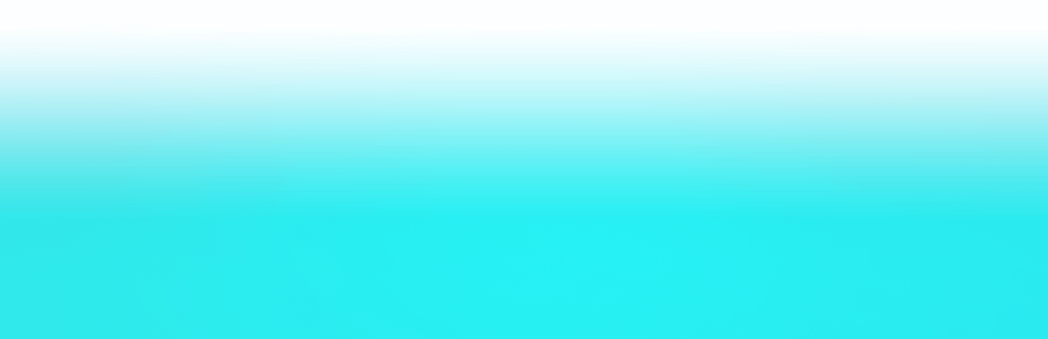
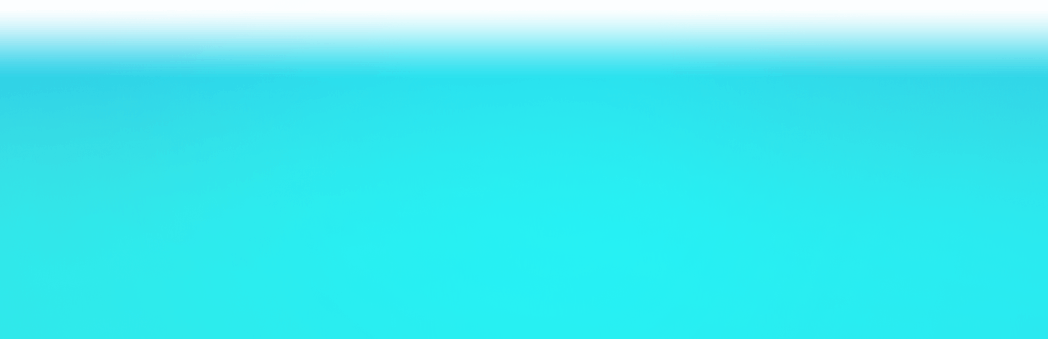
Bug fixes, water asset change.

diff --git a/src/views/MatchThreeBoard.ts b/src/views/MatchThreeBoard.ts
@@ -1,7 +1,7 @@
 import anime from 'animejs';
 import { Container, Sprite } from 'pixi.js';
 import { Images } from '../assets';
-import { delayRunnable, makeSprite } from '../utils';
+import { callIfExists, delayRunnable, makeSprite } from '../utils';
 import { MatchSprite } from './MatchSprite';
 
 export class MatchThreeBoard extends Container {
@@ -70,6 +70,8 @@ export class MatchThreeBoard extends Container {
     }
 
     private onDragStart(event, sprite) {
+        if (this.draggedElement) return;
+
         this.data = event.data;
         this.draggedElement = sprite;
         this.dragStartPosition = event.data.getLocalPosition(this);
@@ -88,6 +90,7 @@ export class MatchThreeBoard extends Container {
 
     private onDragEnd() {
         if (this.draggedElement) {
+            this.board.forEach((col) => col.forEach((e) => e?.disable()));
             const dragEndPosition = this.data.getLocalPosition(this);
 
             const dx = dragEndPosition.x - this.dragStartPosition.x;
@@ -119,15 +122,20 @@ export class MatchThreeBoard extends Container {
                     targetRow--;
                 }
             }
+
+            const cb = () => {
+                this.board.forEach((col) => col.forEach((e) => e?.enable()));
+            };
             if (targetRow !== this.dragStartBoardPosition.row || targetCol !== this.dragStartBoardPosition.col) {
                 this.swapElements(
                     this.dragStartBoardPosition.row,
                     this.dragStartBoardPosition.col,
                     targetRow,
                     targetCol,
+                    cb,
                 );
             } else {
-                this.resetElementPosition(this.draggedElement);
+                this.resetElementPosition(this.draggedElement, cb);
             }
 
             this.draggedElement = null;
@@ -135,7 +143,7 @@ export class MatchThreeBoard extends Container {
         }
     }
 
-    private swapElements(row1, col1, row2, col2) {
+    private swapElements(row1, col1, row2, col2, cb?) {
         const element1 = this.board[col1][row1];
         const element2 = this.board[col2][row2];
 
@@ -150,6 +158,7 @@ export class MatchThreeBoard extends Container {
                     y: tempY,
                     duration: 100,
                     easing: 'easeInOutSine',
+                    complete: () => callIfExists(cb),
                 });
             }
             if (element2) {
@@ -162,6 +171,7 @@ export class MatchThreeBoard extends Container {
                     y: tempY,
                     duration: 100,
                     easing: 'easeInOutSine',
+                    complete: () => callIfExists(cb),
                 });
             }
             return;
@@ -220,6 +230,7 @@ export class MatchThreeBoard extends Container {
 
                             element1.boardPosition = { row: row1, col: col1 };
                             element2.boardPosition = { row: row2, col: col2 };
+                            callIfExists(cb);
                         },
                     });
 
@@ -229,17 +240,18 @@ export class MatchThreeBoard extends Container {
                 delayRunnable(0.3, () => {
                     const { startX: sx, startY: sy, tileSize, rows, cols } = this.config;
 
-                    const cb = () => {
+                    const callback = () => {
                         if (this.board.every((col) => col.every((el) => el === null))) {
                             delayRunnable(0.3, () => {
                                 this.emit('won');
+                                callIfExists(cb);
                             });
                         }
                     };
                     matches.forEach((element, i) => {
                         this.board[element.boardPosition.col][element.boardPosition.row] = null;
 
-                        element.explode(i === matches.length - 1 ? cb : null);
+                        element.explode(i === matches.length - 1 ? callback : null);
                     });
 
                     for (let col = 0; col < cols; col++) {
@@ -268,6 +280,7 @@ export class MatchThreeBoard extends Container {
                                     y,
                                     duration: 100,
                                     easing: 'easeInOutSine',
+                                    complete: () => callIfExists(cb),
                                 });
 
                                 element.originalPosition = { x, y };
@@ -324,8 +337,9 @@ export class MatchThreeBoard extends Container {
         return matches.filter((v, i, a) => a.indexOf(v) === i);
     }
 
-    private resetElementPosition(element) {
+    private resetElementPosition(element, cb?) {
         element.x = element.originalPosition.x;
         element.y = element.originalPosition.y;
+        callIfExists(cb);
     }
 }

diff --git a/src/views/BoardView.ts b/src/views/BoardView.ts
@@ -12,13 +12,13 @@ import { Chest } from './Chest';
 import { Pirate } from './pirate/Pirate';
 
 const BOUNDS = {
-    L: { x: -425, y: -450, w: 850, h: 900 },
+    L: { x: -425, y: -350, w: 850, h: 750 },
     P: { x: -425, y: -800, w: 850, h: 1600 },
 };
 
 const PIRATE = {
     initialPos: { x: -200, y: -300 },
-    targetPos: { x: -200, y: 230 },
+    targetPos: { x: -200, y: 280 },
     scale: 0.7,
 };
 
@@ -78,7 +78,7 @@ export class BoardView extends Container {
 
     private buildChest(): void {
         this.chest = new Chest();
-        this.chest.position.set(200, 260);
+        this.chest.position.set(200, 220);
         this.chest.scale.set(1.5);
         this.addChild(this.chest);
         this.chest.float();
@@ -100,8 +100,8 @@ export class BoardView extends Container {
 
     private buildBubbles(): void {
         const pos = [
-            { x: -120, y: -320 },
-            { x: 150, y: -150 },
+            { x: -120, y: -180 },
+            { x: 120, y: -80 },
         ];
 
         [this.bubble1, this.bubble2].forEach((b, i) => {});
@@ -109,6 +109,7 @@ export class BoardView extends Container {
         this.bubble1 = new Bubble();
         this.bubble1.position.set(pos[0].x, pos[0].y);
         this.bubble1.on('click', (type) => {
+            this.bubble2.disable();
             lego.event.emit(BoardEvents.BubbleClick, type);
         });
         this.addChild(this.bubble1);
@@ -116,6 +117,8 @@ export class BoardView extends Container {
         this.bubble2 = new Bubble();
         this.bubble2.position.set(pos[1].x, pos[1].y);
         this.bubble2.on('click', (type) => {
+            this.bubble1.disable();
+
             lego.event.emit(BoardEvents.BubbleClick, type);
         });
         this.addChild(this.bubble2);
@@ -151,7 +154,6 @@ export class BoardView extends Container {
     }
 
     private onBoardStateUpdate(state: BoardState): void {
-        console.warn('BoardView.onBoardStateUpdate', BoardState[state]);
         switch (state) {
             case BoardState.PirateFalls:
                 this.onPirateFalls();
@@ -245,8 +247,6 @@ export class BoardView extends Container {
             });
             this.animateSword();
         } else if (this.chosenBubble === 'key') {
-            console.warn('key', this.chosenBubble);
-
             this.animationElement.texture = Texture.from(Images[`game/${this.chosenBubble}`]);
             const { anchor, position, scale, angle } = config[this.chosenBubble];
             this.animationElement.anchor.set(anchor.x, anchor.y);
@@ -319,7 +319,7 @@ export class BoardView extends Container {
         anime({
             targets: this.animationElement,
             x: 130,
-            y: 320,
+            y: 300,
             duration: 300,
             delay,
             easing,

diff --git a/src/views/Bubble.ts b/src/views/Bubble.ts
@@ -21,17 +21,17 @@ export class Bubble extends Container {
         return this._isOccupied;
     }
 
+    public disable(): void {
+        this.bkg.interactive = false;
+    }
+
     public hide() {
-        this.bkg.interactive = true;
         anime({
             targets: this.scale,
             x: 0,
             y: 0,
             duration: 300,
             easing: 'easeOutBack',
-            complete: () => {
-                this.bkg.interactive = true;
-            },
         });
     }
 
@@ -63,7 +63,10 @@ export class Bubble extends Container {
     private build() {
         this.bkg = makeSprite({ texture: Images['bubbles/bubble'], anchor: { x: 0.5, y: 0.5 } });
         this.bkg.interactive = true;
-        this.bkg.on('pointerdown', () => this.emit('click', this.type));
+        this.bkg.on('pointerdown', (e) => {
+            //
+            this.emit('click', this.type);
+        });
         this.addChild(this.bkg);
 
         this.icon = new Sprite();

diff --git a/src/App.ts b/src/App.ts
@@ -15,7 +15,7 @@ class App extends Application {
 
     public constructor() {
         super({
-            backgroundColor: 0x73a01c,
+            backgroundColor: 0x000000,
             powerPreference: 'high-performance',
             antialias: true,
             resolution: Math.max(window.devicePixelRatio || 1, 2),
@@ -29,6 +29,9 @@ class App extends Application {
         this.view.classList.add('app');
         // @ts-ignore
         document.body.appendChild(this.view);
+
+        this.renderer.plugins.interaction.autoPreventDefault = false;
+        this.renderer.plugins.interaction.multitouch = false;
 
         globalThis.__PIXI_APP__ = this;
         if (process.env.NODE_ENV !== 'production') {

diff --git a/src/configs/gridConfigs/ForegroundViewGC.ts b/src/configs/gridConfigs/ForegroundViewGC.ts
@@ -18,7 +18,8 @@ const getForegroundGridLandscapeConfig = () => {
             },
             {
                 name: 'pcta',
-                bounds: { x: 0.775, y: 0.8, width: 0.2, height: 0.175 },
+                bounds: { x: 0.8, y: 0.8, width: 0.2, height: 0.2 },
+                offset: { x: -10, y: -10 },
             },
             {
                 name: 'logo',
@@ -56,7 +57,7 @@ const getForegroundGridPortraitConfig = () => {
             },
             {
                 name: 'pcta',
-                bounds: { x: 0.5, y: 0.9, width: 0.4, height: 0.075 },
+                bounds: { x: 0.1, y: 0.9, width: 0.8, height: 0.075 },
             },
             {
                 name: 'sound',

diff --git a/src/views/MatchSprite.ts b/src/views/MatchSprite.ts
@@ -27,6 +27,14 @@ export class MatchSprite extends Container {
         return this._type;
     }
 
+    public enable(): void {
+        this.sprite.interactive = true;
+    }
+
+    public disable(): void {
+        this.sprite.interactive = false;
+    }
+
     public explode(cb?): void {
         this.splash.visible = true;
         this.splash.play();
